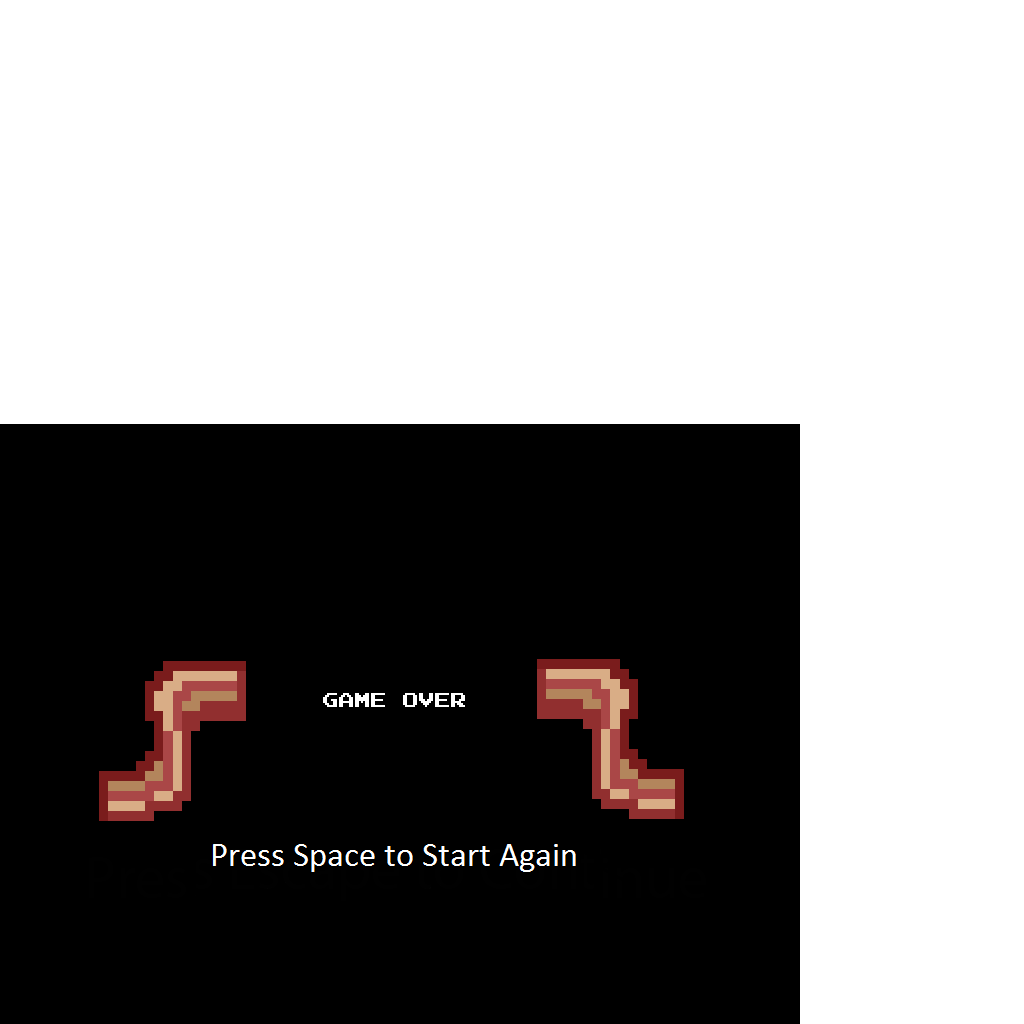
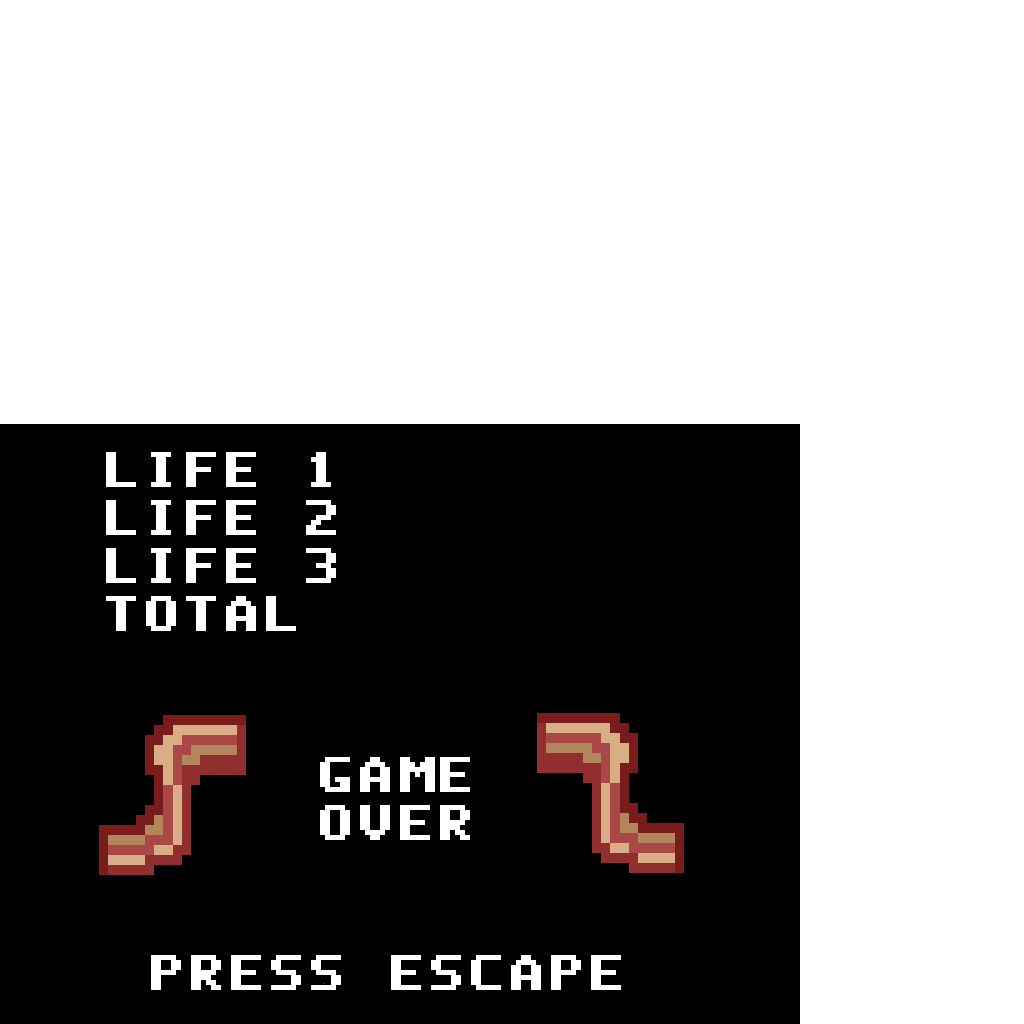
Finished?

diff --git a/RazorbackAttack/src/com/team14/LifeLostScreen.java b/RazorbackAttack/src/com/team14/LifeLostScreen.java
@@ -22,7 +22,7 @@ public class LifeLostScreen implements Screen
 	Game game;
 	GameInfo info;
 	Music music;
-	float scale = 0.350f;
+	float scale = 0.480f;
 	int multiplier = 1;
 	private boolean didShow = false; // For testing.
 	BitmapFont font;
@@ -41,7 +41,7 @@ public class LifeLostScreen implements Screen
 	{  
 		batch = new SpriteBatch();  
 		splashTexture = new Texture(Gdx.files.internal("assets/EndLife.png"));
-		font = TrueTypeFontFactory.createBitmapFont(Gdx.files.internal("assets/StarForce.ttf"), FONT_CHARACTERS, 7.5f, 7.5f, 1.0f, Gdx.graphics.getWidth(), Gdx.graphics.getHeight());
+		font = TrueTypeFontFactory.createBitmapFont(Gdx.files.internal("assets/dlxfont.ttf"), FONT_CHARACTERS, 7.5f, 7.5f, 1.0f, Gdx.graphics.getWidth(), Gdx.graphics.getHeight());
 		font.setScale(.4f);
 		didShow = true;
 		gameScreen = null;
@@ -53,13 +53,15 @@ public class LifeLostScreen implements Screen
       
 	public void render (float delta)
 	{
+		CharSequence str = "";
+		
 		Gdx.gl.glClear(GL10.GL_COLOR_BUFFER_BIT); // This cryptic line clears the screen.  
 
 		int R = (int) (Math.random( )*256);
 		int G = (int) (Math.random( )*256);
 		int B = (int) (Math.random( )*256);
 
-		if ((scale >= .400) || (scale <= .300))
+		if ((scale >= .500) || (scale <= .460))
 		{
 			multiplier = -1 * multiplier;
 		}
@@ -69,7 +71,7 @@ public class LifeLostScreen implements Screen
 		batch.draw(splashTexture, 0, 0);  
 		for (int life = 0; life < info.life(); life++)
 		{
-			CharSequence str= "" + info.getScore(life);
+			str = "" + info.getScore(life);
 			if (info.getScore(life) != -1)
 			{
 				if (life == info.life() - 1)
@@ -80,9 +82,9 @@ public class LifeLostScreen implements Screen
 				else
 				{
 					font.setColor(Color.WHITE);
-					font.setScale(0.3f);
+					font.setScale(0.460f);
 				}
-				font.draw(batch, str, 150, 550-(life*40));
+				font.draw(batch, str, 515, 537 - (life * 48));
 			}
 		}
 		batch.end();

diff --git a/RazorbackAttack/src/com/team14/Razorback.java b/RazorbackAttack/src/com/team14/Razorback.java
@@ -48,7 +48,8 @@ public class Razorback
     
 	/* Razorback states */
     private BitSet state; 
-
+    private int dashes = 0;
+    
 	public static final int RUNNING = 0;
 	public static final int JUMP = 1;
 	public static final int DOUBLEJUMP = 2;
@@ -182,6 +183,7 @@ public class Razorback
         }
         else if (state.get(DASH))
         {
+        	this.setYVelocity(0.0f);
         	if (info.motorcycleMode())
         		currentFrame = motorcycleTR;
         	else
@@ -256,6 +258,16 @@ public class Razorback
         return didJump;
     }
 
+    public void endJump()
+    {
+    	state.set(RUNNING);
+    	state.set(JUMP, false);
+    	state.set(DOUBLEJUMP, false);
+    	
+    	// Reset dash counter
+    	dashes = 0;
+    }
+    
     /**
      * dash(): Attempts to perform a dash. A dash is 0.5 seconds long.
      *         Ensure that we're not already dashing.
@@ -265,8 +277,12 @@ public class Razorback
     {
     	boolean didDash = false;
     	
-        if ((!state.get(DASH)) && (!state.get(DIE)))
+        if ((!state.get(DASH)) && (!state.get(DIE)) && (dashes < 2))
         {
+        	// Increment dash counter. Only two allowed per jump/doublejump.
+        	if ((state.get(JUMP)) || (state.get(DOUBLEJUMP)))
+        		dashes++;
+        	
         	setXVelocity(dashXVelocity);
         	setYVelocity(0.0f);
         	world.setGravity(new Vector2(0.0f, 0.0f));

diff --git a/RazorbackAttack/src/com/team14/HelpScreen.java b/RazorbackAttack/src/com/team14/HelpScreen.java
@@ -17,19 +17,24 @@ public class HelpScreen implements Screen
 	Game game;
 	Screen prevScreen; 
 	private Music music, oldMusic;
+	boolean paused;
 	
-	public HelpScreen(Game g, Screen s, Music m)
+	public HelpScreen(Game g, Screen s, Music m, boolean p)
 	{
 		game = g;
 		prevScreen = s;
 		oldMusic = m;
+		paused = p;
 	}
 
 	@Override
 	public void show()
 	{
-		batch = new SpriteBatch();  
-		helpTexture = new Texture(Gdx.files.internal("assets/HelpScreen.png"));
+		batch = new SpriteBatch();
+		if (paused)
+			helpTexture = new Texture(Gdx.files.internal("assets/PauseScreen.png"));
+		else
+			helpTexture = new Texture(Gdx.files.internal("assets/HelpScreen.png"));
         music = Gdx.audio.newMusic(Gdx.files.getFileHandle("assets/music/pause.mp3", FileType.Internal));
         if (music != null)
         {

diff --git a/RazorbackAttack/src/com/team14/Platform.java b/RazorbackAttack/src/com/team14/Platform.java
@@ -69,15 +69,11 @@ public class Platform
 		for (int i = 0; i < fixtureDef.length; i++)
 			if (fixtureDef[i] != null)
 				body.createFixture(fixtureDef[i]);
-		System.out.println("Obstacle position: " + (obstaclePos.x + xPos) + ", " + obstaclePos.y);
-		System.out.println("Platform position: " + xPos + ", " + yRandomized);
-		System.out.println("=============================================================");
 		if (obstaclePos.x != 0.0)
 			obstacle = new Obstacle(world, (obstaclePos.x + xPos), yPos + yRandomized - obstaclePos.y);
 
 		body.setUserData(this);
 	}
-	
 
 	public void render(SpriteBatch spriteBatch)
 	{

diff --git a/RazorbackAttack/src/com/team14/IntroScreen.java b/RazorbackAttack/src/com/team14/IntroScreen.java
@@ -57,14 +57,14 @@ public class IntroScreen implements Screen
 		}
 		if (Gdx.input.isKeyPressed(Keys.H))
 		{
-			game.setScreen(new HelpScreen(game, this, music));
+			game.setScreen(new HelpScreen(game, this, music, false));
 			System.out.println("Going to HelpScreen...");
 		}
 		if (Gdx.input.isKeyPressed(Keys.D))
 		{
 			info.setMotorcycleMode();
 		}
-		if (Gdx.input.isKeyPressed(Keys.ESCAPE))
+		if (Gdx.input.isKeyPressed(Keys.X))
 		{
 			Gdx.app.exit();
 		}

diff --git a/RazorbackAttack/src/com/team14/RAContactListener.java b/RazorbackAttack/src/com/team14/RAContactListener.java
@@ -52,9 +52,7 @@ public class RAContactListener implements ContactListener
 			razorback = (Razorback) razorbackBody.getUserData();
 			if (!razorback.isSlowing())
 			{
-				razorback.setState(Razorback.RUNNING);
-				razorback.setState(Razorback.JUMP, false);
-				razorback.setState(Razorback.DOUBLEJUMP, false);
+				razorback.endJump();
 				if (razorback.isDashing())
 					razorback.setXVelocity(Razorback.dashXVelocity);
 				else if (razorback.isDying())
